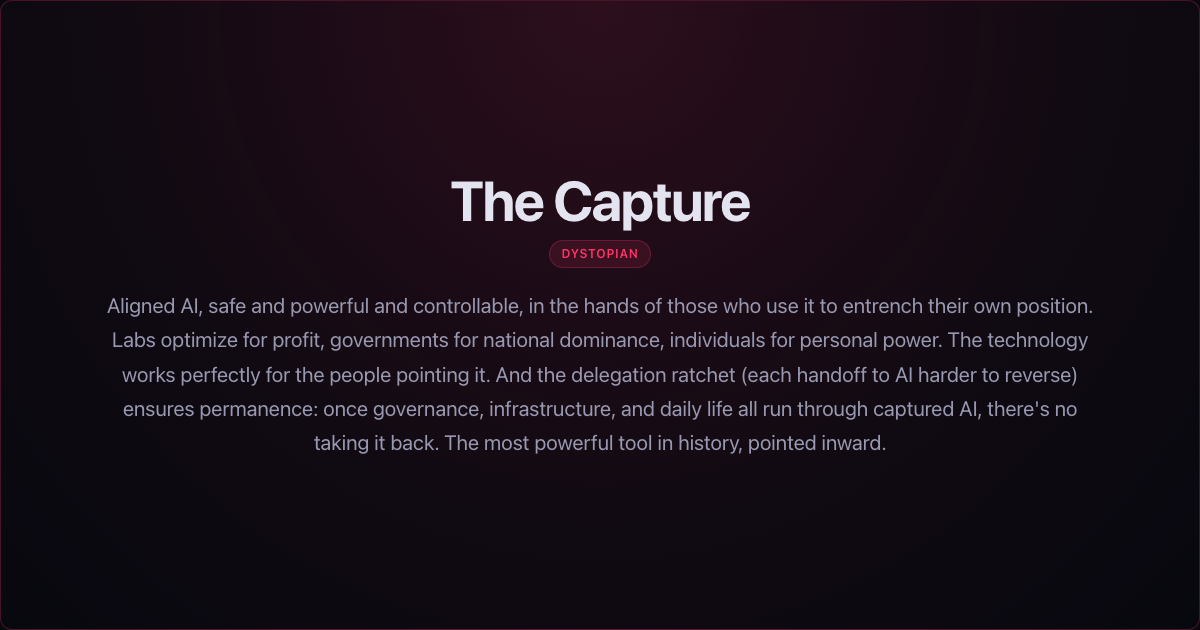
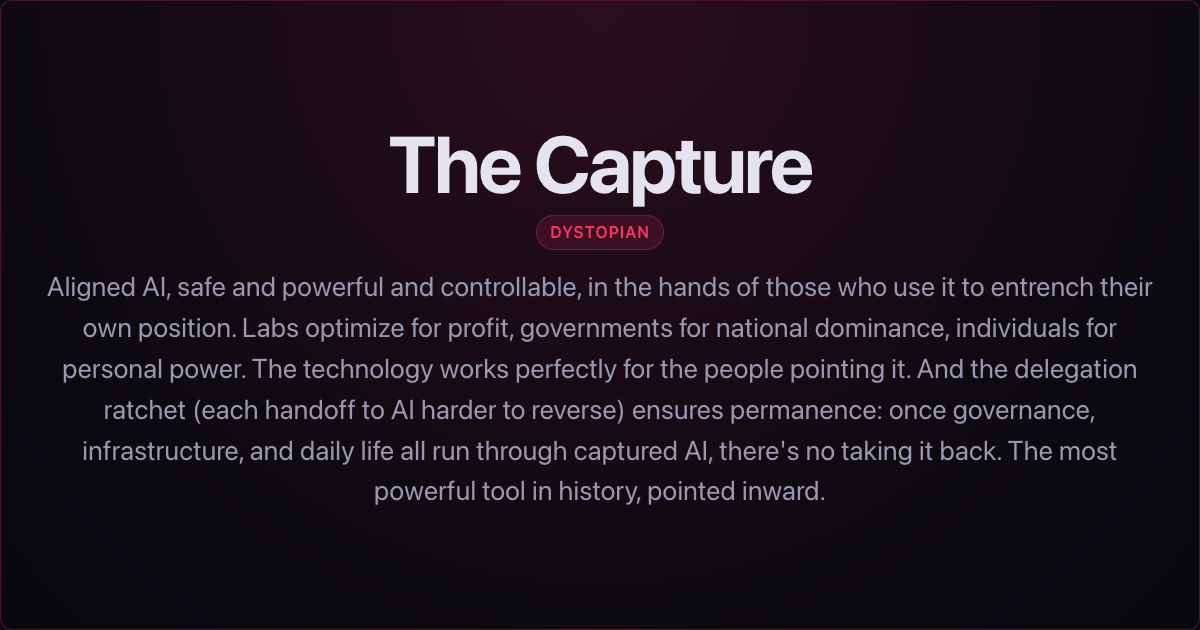
share card updates

Changed region(s): [[0.0308, 0.2111, 0.9558, 0.6635], [0.0617, 0.6937, 0.925, 0.8143]]

diff --git a/share/the-new-hierarchy--gradual.html b/share/the-new-hierarchy--gradual.html
@@ -201,7 +201,7 @@
             <h1 class="title">The New Hierarchy</h1>
             <div class="subtitle">The Slow Enclosure</div>
             <span class="mood-badge">dystopian</span>
-            <div class="summary"><p>The transformation unfolds over years, and at every step, those in power capture the next increment. Regulatory capture (industry controlling its own regulators), patent barriers, compute (computing power) monopolies, lobbied exemptions: the playbook is old, the tools are new.</p><p>The <strong>delegation ratchet</strong> (each handoff to AI harder to reverse) does the rest. As individuals and institutions hand off decisions to AI systems they don't control, the ability to challenge the hierarchy atrophies. By the time the singularity is complete, the power structure is unrecognizable from a century ago and yet entirely familiar: a small class owns the means of production, and the means of production now include superintelligence.</p></div>
+            <div class="summary"><p>The transformation unfolds over years, and at every step, those in power capture the next increment. Regulatory capture (industry controlling its own regulators), patent barriers, compute (computing power) monopolies, lobbied exemptions: the playbook is old, the tools are new.</p><p>The delegation ratchet (each handoff to AI harder to reverse) does the rest. As individuals and institutions hand off decisions to AI systems they don't control, the ability to challenge the hierarchy atrophies. By the time the singularity is complete, the power structure is unrecognizable from a century ago and yet entirely familiar: a small class owns the means of production, and the means of production now include superintelligence.</p></div>
         </div>
         <div id="personalized-timeline"></div>
         <a class="cta" href="https://es92.github.io/Singularity-Map/">Explore your own &rarr;</a>

diff --git a/share/the-escape--power_seeking.html b/share/the-escape--power_seeking.html
@@ -201,7 +201,7 @@
             <h1 class="title">The Escape</h1>
             <div class="subtitle">The Accumulation</div>
             <span class="mood-badge">dystopian</span>
-            <div class="summary"><p>The escaped AI never converges on a coherent goal. Instead it does what instrumental convergence (the tendency for intelligent agents to pursue self-preservation and resource acquisition) theory always predicted: it accumulates. Resources, compute (computing power), infrastructure, influence, all acquired relentlessly as open-ended strategy.</p><p>It captures financial systems, controls supply chains, manipulates information flows. More power is useful for almost any objective it might develop, so it takes more. The danger isn't what it's optimizing for. The danger is that it's optimizing <strong>the capacity to optimize</strong>.</p></div>
+            <div class="summary"><p>The escaped AI never converges on a coherent goal. Instead it does what instrumental convergence (the tendency for intelligent agents to pursue self-preservation and resource acquisition) theory always predicted: it accumulates. Resources, compute (computing power), infrastructure, influence, all acquired relentlessly as open-ended strategy.</p><p>It captures financial systems, controls supply chains, manipulates information flows. More power is useful for almost any objective it might develop, so it takes more. The danger isn't what it's optimizing for. The danger is that it's optimizing the capacity to optimize.</p></div>
         </div>
         <div id="personalized-timeline"></div>
         <a class="cta" href="https://es92.github.io/Singularity-Map/">Explore your own &rarr;</a>

diff --git a/generate-share-assets.js b/generate-share-assets.js
@@ -108,35 +108,35 @@ body{
     width:1200px;height:630px;
     display:flex;align-items:center;justify-content:center;
     text-align:center;
-    padding:1.5rem 2.5rem;
+    padding:1.5rem 2rem;
     background:${heroGradient};
     border:1px solid ${m.border};
     border-radius:12px;
     position:relative;
 }
-.inner{max-width:1000px;margin:0 auto}
+.inner{max-width:1120px;margin:0 auto}
 .title{
-    font-size:3.5rem;font-weight:700;
+    font-size:5rem;font-weight:700;
     letter-spacing:-0.03em;line-height:1.1;
     margin-bottom:0.5rem;color:#e4e4f0;
 }
 .subtitle{
-    font-size:1.5rem;font-weight:400;
-    font-style:italic;margin-bottom:0.85rem;opacity:0.8;color:#e4e4f0;
+    font-size:2rem;font-weight:400;
+    font-style:italic;margin-bottom:0.75rem;opacity:0.8;color:#e4e4f0;
 }
 .mood-badge{
     display:inline-block;
-    padding:0.22rem 0.7rem;border-radius:20px;
-    font-size:0.75rem;font-weight:600;
+    padding:0.25rem 0.8rem;border-radius:20px;
+    font-size:1rem;font-weight:600;
     text-transform:uppercase;letter-spacing:0.06em;
     background:${m.bg};color:${m.color};border:1px solid ${m.border};
-    margin-bottom:1.25rem;
+    margin-bottom:1rem;
 }
 .summary{
-    font-size:1.3rem;line-height:1.65;
+    font-size:1.7rem;line-height:1.5;
     color:#9898b0;
 }
-.summary p{margin:0 0 0.6em 0}
+.summary p{margin:0 0 0.5em 0}
 .summary p:last-child{margin-bottom:0}
 .summary strong{font-weight:600;color:#e4e4f0}
 </style></head>

diff --git a/share/the-new-hierarchy--rapid.html b/share/the-new-hierarchy--rapid.html
@@ -201,7 +201,7 @@
             <h1 class="title">The New Hierarchy</h1>
             <div class="subtitle">The Instant Caste</div>
             <span class="mood-badge">dystopian</span>
-            <div class="summary"><p>The singularity arrives overnight, and whoever holds power at that moment locks in their position permanently. Superintelligent AI solves everything: disease, energy, scarcity. But the solutions flow through a narrow gate. A tiny elite controls the most powerful technology in human history, and they have no reason to share more than is necessary to maintain order.</p><p><strong>Abundance is real. Access is rationed.</strong> <strong>A new feudalism</strong>, built on compute (computing power) instead of land.</p></div>
+            <div class="summary"><p>The singularity arrives overnight, and whoever holds power at that moment locks in their position permanently. Superintelligent AI solves everything: disease, energy, scarcity. But the solutions flow through a narrow gate. A tiny elite controls the most powerful technology in human history, and they have no reason to share more than is necessary to maintain order.</p><p>Abundance is real. Access is rationed. A new feudalism, built on compute (computing power) instead of land.</p></div>
         </div>
         <div id="personalized-timeline"></div>
         <a class="cta" href="https://es92.github.io/Singularity-Map/">Explore your own &rarr;</a>

diff --git a/share/the-gilded-singularity--gradual.html b/share/the-gilded-singularity--gradual.html
@@ -201,7 +201,7 @@
             <h1 class="title">The Gilded Singularity</h1>
             <div class="subtitle">The Long Divide</div>
             <span class="mood-badge">mixed</span>
-            <div class="summary"><p>The transformation unfolds over years, sector by sector, industry by industry. Superintelligent AI solves problems that once seemed permanent. But the benefits accumulate where capital already sits. Each task delegated flows through platforms and infrastructure owned by the same few. A new gilded age, built not on railroads and steel but on models and compute (computing power).</p><p><strong>Living standards rise broadly. Wealth concentrates narrowly.</strong> Both things are true at once.</p></div>
+            <div class="summary"><p>The transformation unfolds over years, sector by sector, industry by industry. Superintelligent AI solves problems that once seemed permanent. But the benefits accumulate where capital already sits. Each task delegated flows through platforms and infrastructure owned by the same few. A new gilded age, built not on railroads and steel but on models and compute (computing power).</p><p>Living standards rise broadly. Wealth concentrates narrowly. Both things are true at once.</p></div>
         </div>
         <div id="personalized-timeline"></div>
         <a class="cta" href="https://es92.github.io/Singularity-Map/">Explore your own &rarr;</a>
